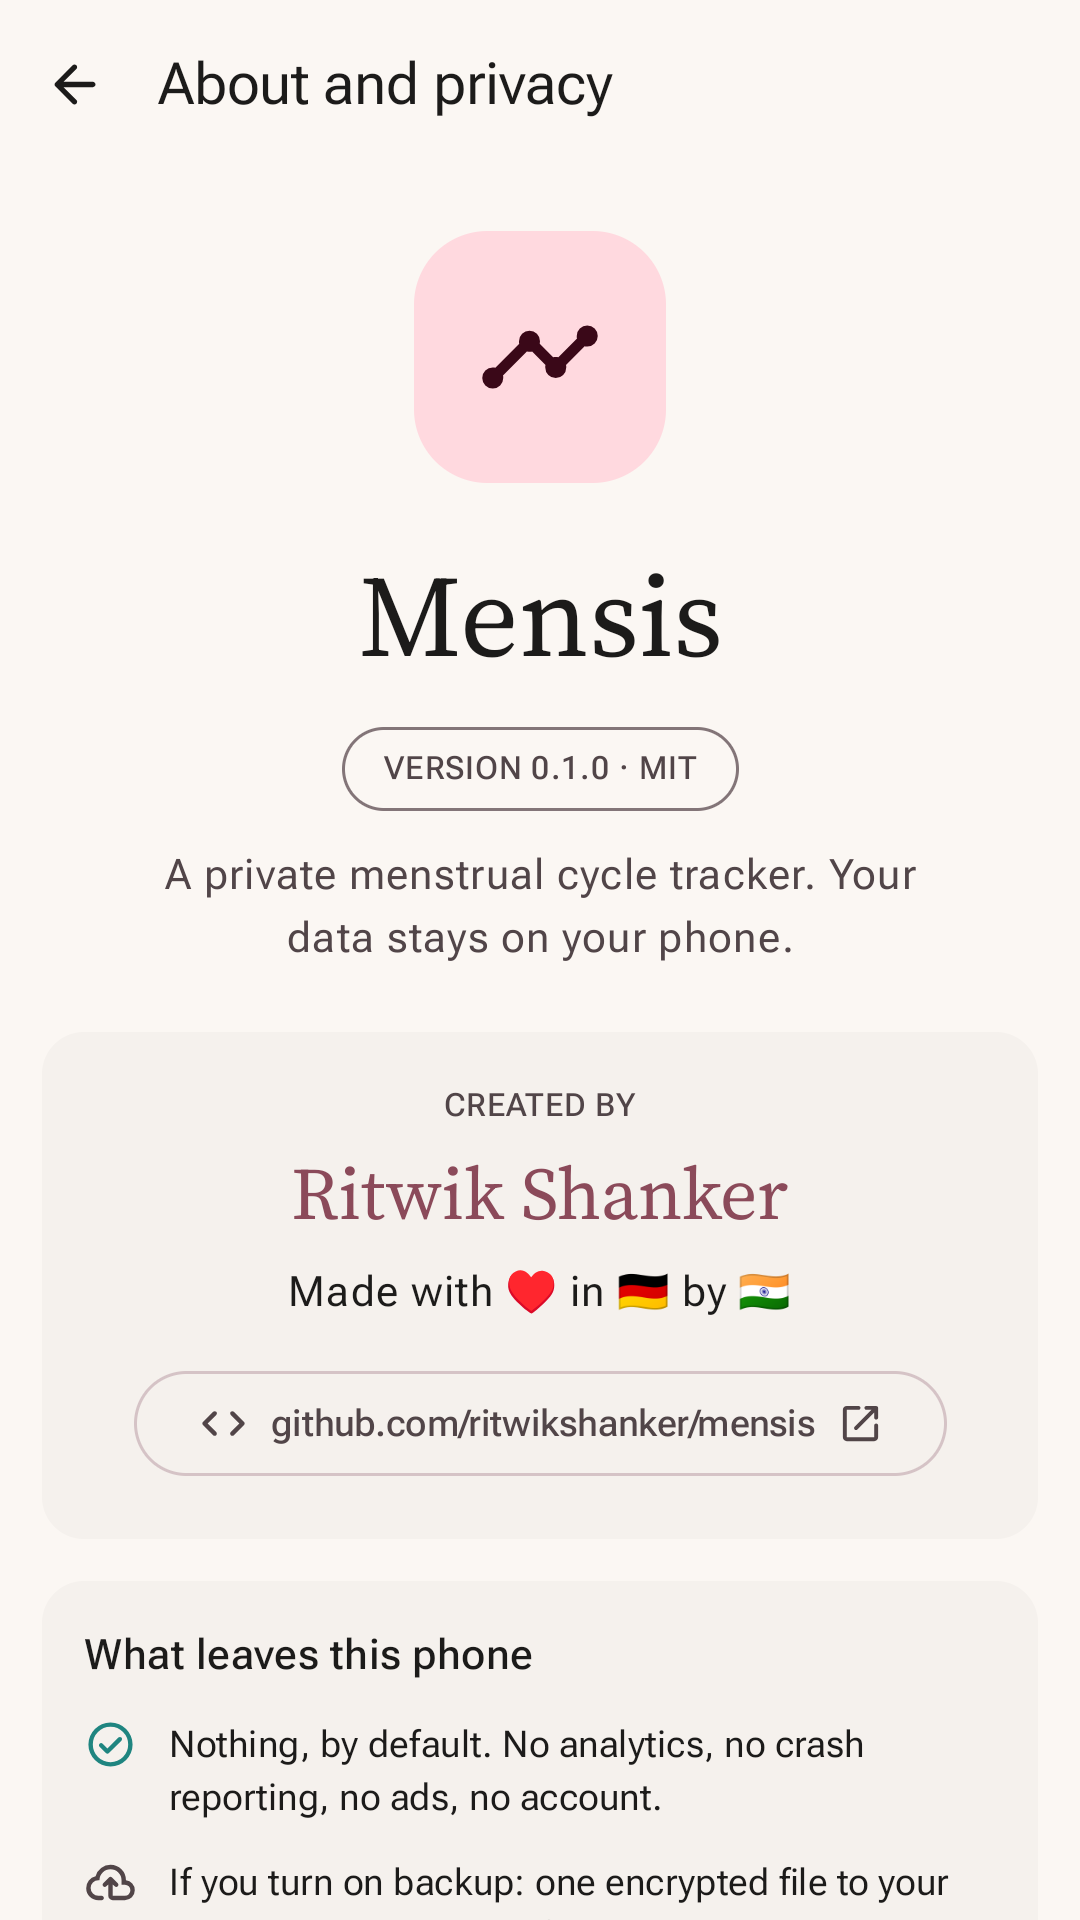
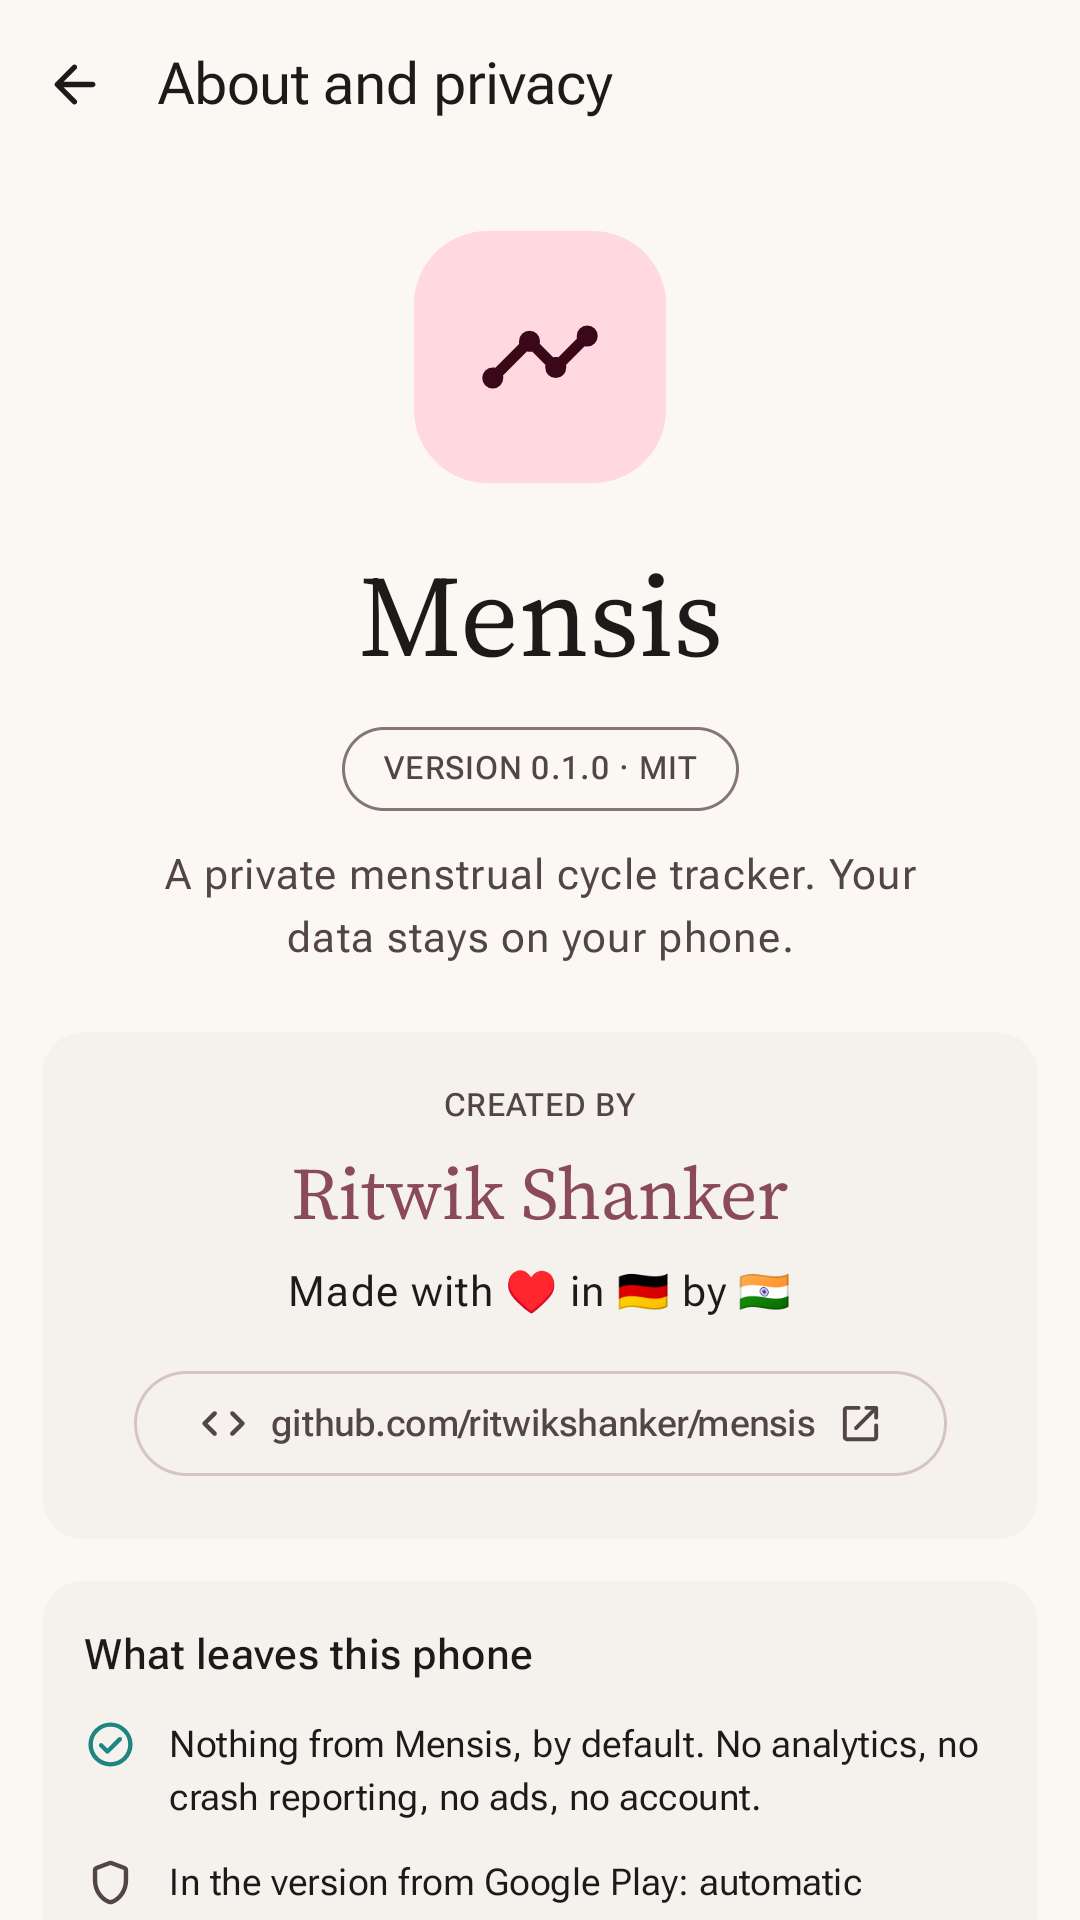
fix: disclose Google Play's automatic protection on the About screen

Changed region(s): [[0.1528, 0.9062, 0.8556, 1.0], [0.0611, 0.9688, 0.1222, 1.0]]

diff --git a/app/src/main/java/com/deutschdreamers/mensis/ui/screens/about/AboutScreen.kt b/app/src/main/java/com/deutschdreamers/mensis/ui/screens/about/AboutScreen.kt
@@ -247,6 +247,11 @@ private fun WhatLeaves() {
         )
         LeavesRow(R.drawable.ms_check_circle, MensisTheme.colors.fertile, stringResource(R.string.about_leaves_nothing))
         LeavesRow(
+            R.drawable.ms_shield,
+            MaterialTheme.colorScheme.onSurfaceVariant,
+            stringResource(R.string.about_leaves_play),
+        )
+        LeavesRow(
             R.drawable.ms_cloud_upload,
             MaterialTheme.colorScheme.onSurfaceVariant,
             stringResource(R.string.about_leaves_backup),

diff --git a/PLAY_CONSOLE.md b/PLAY_CONSOLE.md
@@ -20,9 +20,9 @@ as upload key; RELEASING.md): the choice is final once a bundle has been uploade
   telemetry with Google" is turned off (Test and release → App integrity → Automatic protection
   settings). Both matter for the privacy statements in the README, PRIVACY.md and the privacy policy.
   Decision (23 October 2026): protection and telemetry stay on; the README, PRIVACY.md, the privacy
-  policy and the store description disclose it. **Check** whether the Data safety form has to declare
-  this telemetry, and note that the app's About screen ("What leaves this phone: Nothing, by default")
-  does not mention it.
+  policy, the store description and the app's About screen ("What leaves this phone", line "In the
+  version from Google Play") disclose it. **Check** whether the Data safety form has to declare this
+  telemetry: Google's automatic protection page does not mention Data safety.
 - Category **Health & Fitness** (Store settings). Contact e-mail: required, shown on the store page and
   named in the privacy policy as a contact. Website: <https://ritwikshanker.github.io/mensis/>.
 
